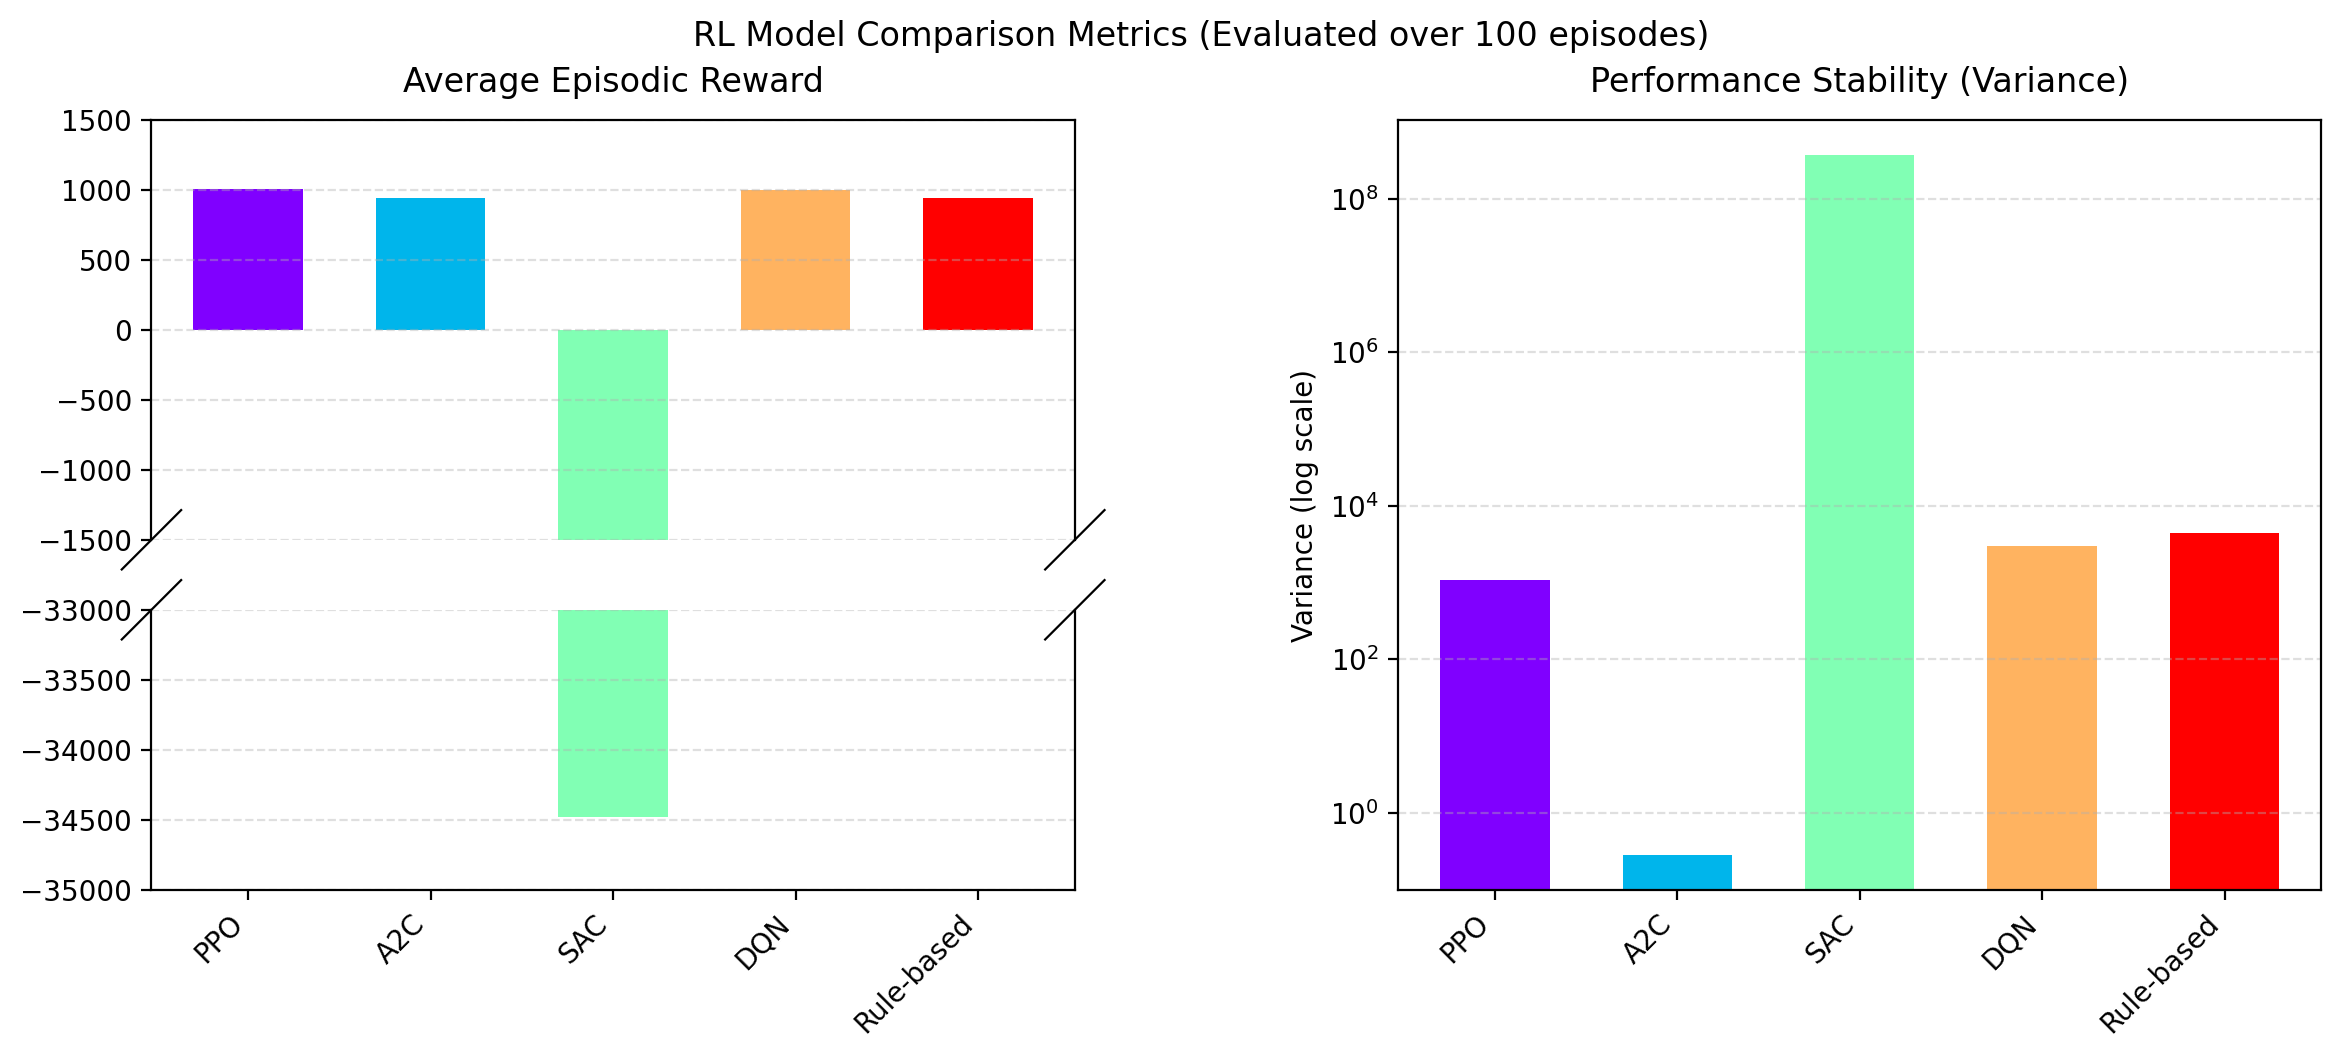
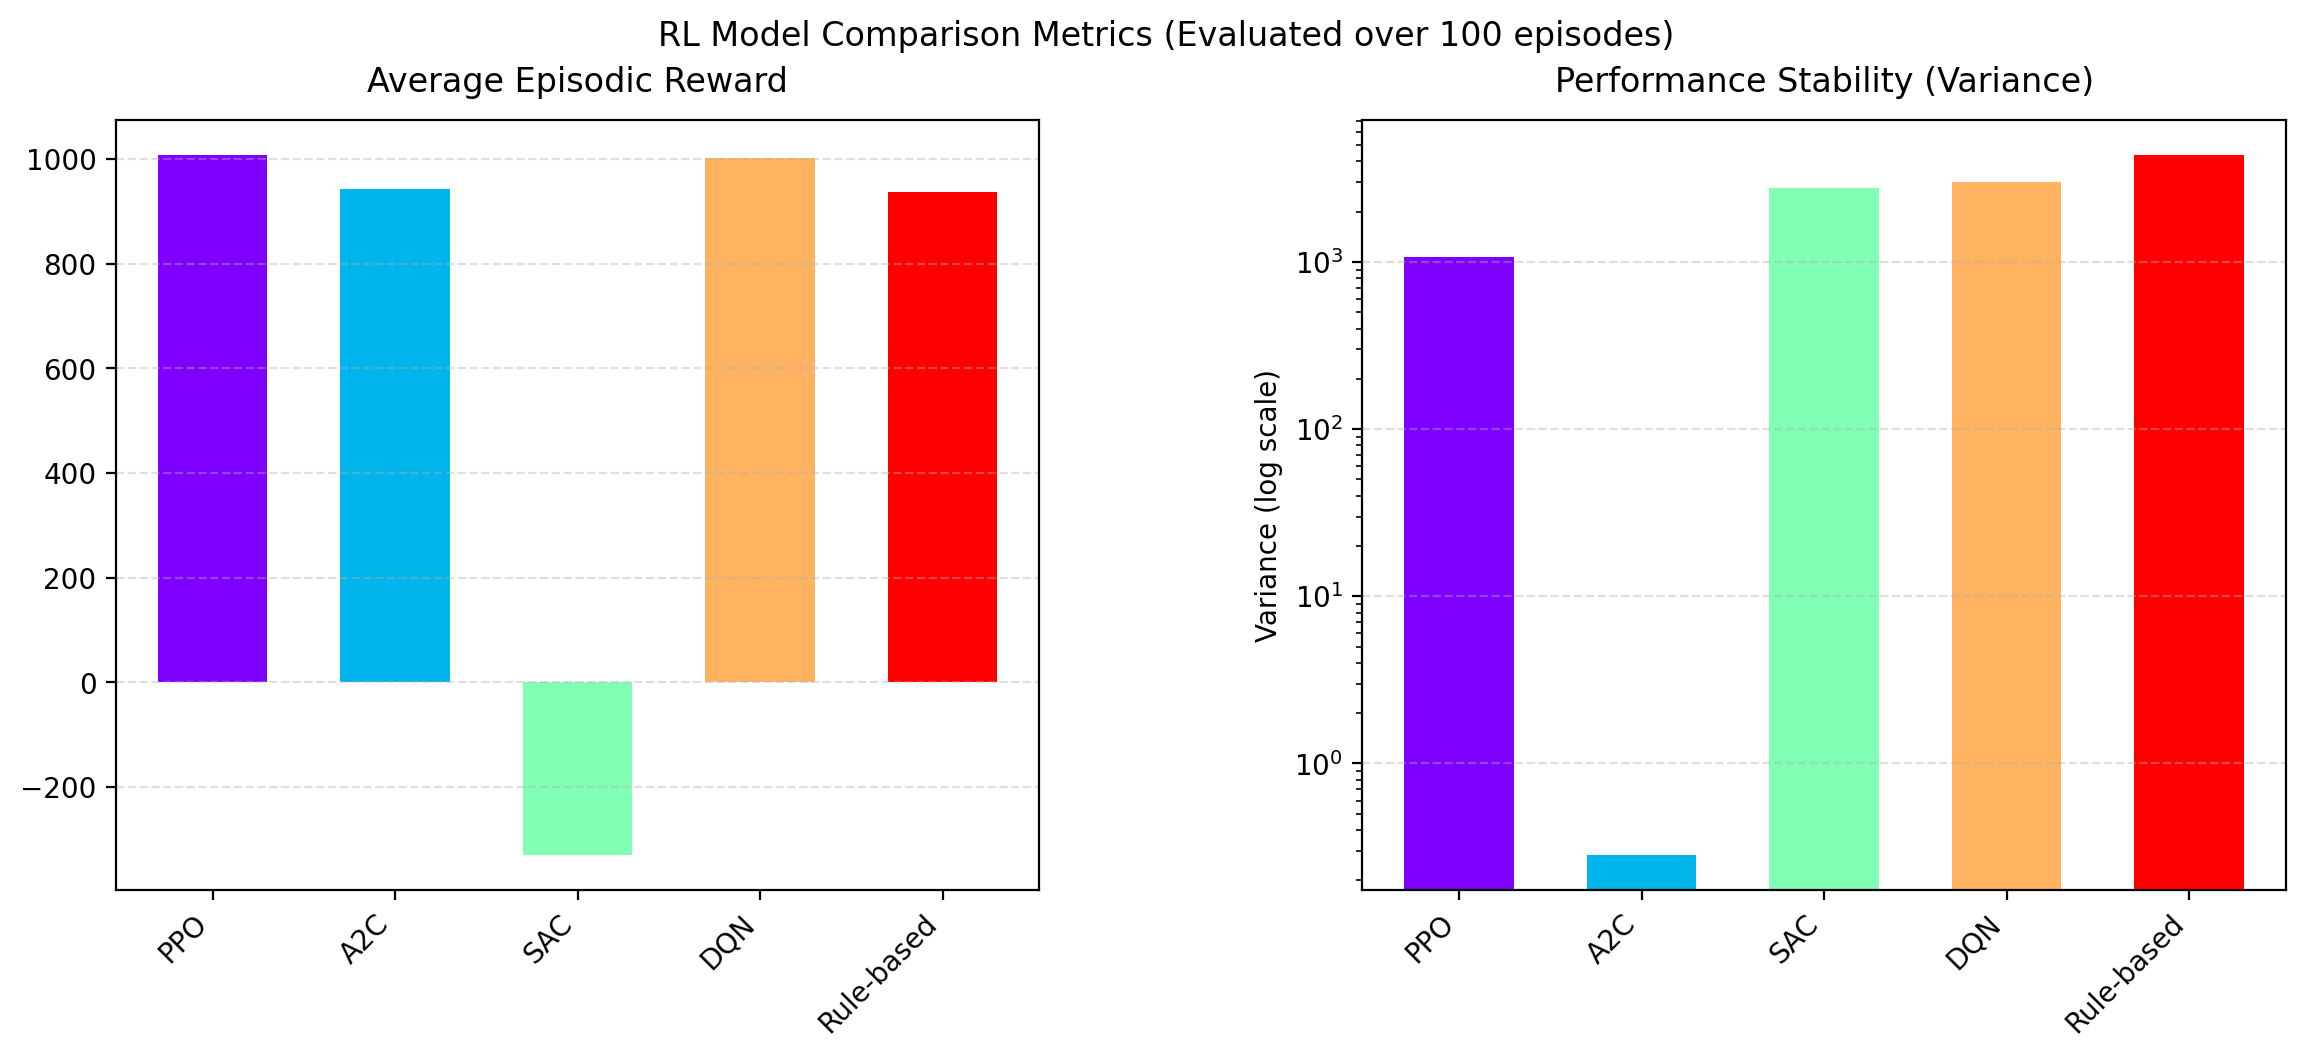
added sac results , finish reward breakdown plots, and minor tweaks to existing plots

diff --git a/plot_all.py b/plot_all.py
@@ -10,7 +10,7 @@ import matplotlib.pyplot as plt
 rewards_rulebased = np.load("models/rulebased_rewards.npy")
 rewards_ppo = np.load("models/ppo/ppo_act_100_rewards.npy")
 rewards_a2c = np.load("models/a2c/a2c_act100_total_rewards.npy")
-rewards_sac = np.load("models/sac/sac_act_100_rewards.npy")
+rewards_sac = np.load("models/sac/new_sac_act_100_rewards.npy")
 rewards_dqn = [1048.309117729268, 1069.5026737583723, 1048.4517957213461, 1045.1537590423807, 936.5585172348857, 1059.5782669659077, 935.7592384355157, 1058.9103801163906, 935.1753712722582, 953.8739630154133, 932.8458162373181, 933.3430721550471, 1061.793842397295, 1031.0737131902658, 1046.0178865213454, 912.9244045774146, 960.5409293446482, 944.5169216905992, 1045.864845331248, 1069.1155458495336, 1064.3340194190837, 984.7504184760563, 1059.0033365161835, 965.9267200111822, 1032.4666642148488, 1067.5829893581765, 1036.1908623539887, 1060.5260430810517, 989.967596410525, 1027.1484758403258, 1058.2826729333992, 964.7959256028282, 995.8982007826423, 859.4792688166358, 978.7717133366386, 985.1540525668643, 961.7732568574702, 948.910449049906, 1070.5902417760917, 996.1722966933021, 1067.310318543259, 997.2504223353833, 1063.4375834392026, 951.4783538162411, 1043.801400660975, 1047.8041027954882, 1050.0716706400779, 1061.0095775788368, 1065.5119396175705, 989.5010221069944, 959.7574154870041, 927.3205011227878, 1060.4078402765854, 1067.1121461065816, 922.9327010647459, 1065.8477143554014, 983.4521041631646, 1030.6229856361451, 1035.3422715636052, 962.9829747429824, 1027.6121784441928, 952.5443330394389, 1050.7757515922654, 959.7503709844952, 915.9488276544404, 1066.0145190713945, 1056.6618038826477, 921.85843460079, 961.4564152118644, 1031.7146663650765, 959.186712278045, 1059.9325759213684, 928.6741942500038, 1052.3583227241413, 934.870040082888, 966.9816806336692, 1049.4340249374661, 1070.1417709288212, 1068.7304387326324, 944.5920860646308, 997.9253792596041, 988.6810989944843, 935.216399937951, 912.7127437136264, 1065.4309612583234, 1058.4786736271524, 972.114503551018, 933.8915369617293, 972.6770515153546, 1068.9428306430211, 981.7287299330659, 917.8189735540859, 908.9349553264358, 920.7866156161895, 990.1941942713624, 980.7409544968231, 1043.3269687561724, 1029.776316100874, 1036.2231716647805, 959.3463735813067]
 
 
@@ -93,21 +93,27 @@ def plot_comparison(alg_names, reward_lists, save_path="plots/comparison_metrics
 
     # 1 . average
     # Create brokenaxes for first subplot using GridSpec (there should be 2 axes)
-    bax1 = brokenaxes(
-        ylims=((-35000, -33000), (-1500, 1500)), 
-        subplot_spec=gs[0],
-        fig=fig,
-        despine=False  
-    )
+    # bax1 = brokenaxes(
+    #     ylims=((-35000, -33000), (-1500, 1500)), 
+    #     subplot_spec=gs[0],
+    #     fig=fig,
+    #     despine=False  
+    # )
+    # bax1.bar(x, avgs, width, color=colors)
+    # bax1.set_title('Average Episodic Reward', pad=10)
+    # bax1.set_xticks(x)
+    # bax1.set_xticklabels(alg_names, rotation=45, ha='right')
+    # for ax in bax1.axs:
+    #     ax.grid(axis='y', linestyle='--', alpha=0.4)
+    #     ax.set_xticks(x)  
+    #     ax.set_xticklabels(alg_names, rotation=45, ha='right')
 
-    bax1.bar(x, avgs, width, color=colors)
-    bax1.set_title('Average Episodic Reward', pad=10)
-    bax1.set_xticks(x)
-    bax1.set_xticklabels(alg_names, rotation=45, ha='right')
-    for ax in bax1.axs:
-        ax.grid(axis='y', linestyle='--', alpha=0.4)
-        ax.set_xticks(x)  
-        ax.set_xticklabels(alg_names, rotation=45, ha='right')
+    ax1 = fig.add_subplot(gs[0])
+    ax1.bar(x, avgs, width, color=colors)
+    ax1.set_title('Average Episodic Reward', pad=10)
+    ax1.set_xticks(x)
+    ax1.set_xticklabels(alg_names, rotation=45, ha='right')
+    ax1.grid(axis='y', linestyle='--', alpha=0.4)
 
     # # 2 . cumulative
     # bax2 = brokenaxes(
@@ -182,6 +188,8 @@ def plot_episodic_line(alg_names, reward_lists, save_path="plots/episodic_reward
 
     for name, r, color in processed:
         episodes = np.arange(1, len(r) + 1)
+        # if(name == "SAC"):
+        #     continue
         plt.plot(episodes, r, label=name, color=color, linewidth=1.5)
 
     plt.xlabel('Episode')

diff --git a/plot_all_energy.py b/plot_all_energy.py
@@ -6,41 +6,56 @@ import utils
     # plt.plot(cumsum[1], 'b-', label = 'Hygiene') # Hygiene
     # plt.plot(cumsum[2], 'y-', label = 'Energy') # Energy
     # plt.plot(cumsum[3], 'r-', label = 'Safety') # Safety
+reward_types = ['Comfort', 'Hygiene', 'Energy', 'Safety']
 
+def plot_all_rewards():
+    # Load data
+    a2c = np.load("models/a2c/a2c_1_episode_rewards_breakdown.npy")
+    rulebased = np.load("models/rulebased_1_episode_rewards_breakdown.npy")
+    dqn = np.load("models/dqn/dqn_v5-0-0-0_episode_rewards_breakdown.npy")
+    ppo = np.load("models/ppo/ppo_eval_step_rewards_breakdown.npy")
+    sac = np.load("models/sac/sac_1_episode_rewards.npy")
 
-a2c = np.load("models/a2c/a2c_1_episode_rewards_breakdown.npy")
-rulebased = np.load("models/rulebased_1_episode_rewards_breakdown.npy")
-dqn = np.load("models/dqn/dqn_v5-0-0-0_episode_rewards_breakdown.npy")
-ppo = np.load("models/ppo/ppo_eval_step_rewards_breakdown.npy")
+    # Truncate to minimum length
+    min_len = min(a2c.shape[0], rulebased.shape[0], dqn.shape[0], ppo.shape[0], sac.shape[0])
+    a2c = a2c[:min_len]
+    rulebased = rulebased[:min_len]
+    dqn = dqn[:min_len]
+    ppo = ppo[:min_len]
+    sac = sac[:min_len]
 
-min_len = min(a2c.shape[0], rulebased.shape[0], dqn.shape[0], ppo.shape[0])
-a2c = a2c[:min_len]
-rulebased = rulebased[:min_len]
-dqn = dqn[:min_len]
-ppo = ppo[:min_len]
+    # Create 2x2 subplots
+    # fig, axes = plt.subplots(2, 2, figsize=(15, 10))
+    plt.figure(figsize=(15, 10))
+    # # Flatten axes for easier iteration
+    # axes = axes.flatten()
+    
+    # Plot each reward type
+    for idx, reward_type in enumerate(reward_types):
+        # Skip the first row which is all zeros and extract the specific reward
+        a2c_reward = np.cumsum(a2c[1:, idx].flatten())
+        rulebased_reward = np.cumsum(rulebased[1:, idx].flatten())
+        dqn_reward = np.cumsum(dqn[1:, idx].flatten())
+        ppo_reward = np.cumsum(ppo[1:, idx].flatten())
+        sac_reward = np.cumsum(sac[1:, idx].flatten())
+        
+        # Plot on the corresponding subplot
+        plt.subplot(2, 2, idx + 1)
+        plt.plot(rulebased_reward, 'r--', label='Rule-based', linewidth=1.5)
+        plt.plot(a2c_reward, 'y-', label='A2C', linewidth=1.5)
+        plt.plot(dqn_reward, 'b-', label='DQN', linewidth=1.5)
+        plt.plot(ppo_reward, 'g-', label='PPO', linewidth=1.5)
+        plt.plot(sac_reward, 'm-', label='SAC', linewidth=1.5)
+        
+        plt.xlabel("Step", fontsize=11)
+        plt.ylabel(f"{reward_type} Reward", fontsize=11)
+        plt.title(f"Cumulative {reward_type} Reward", fontsize=12)
+        plt.legend(loc="best", fontsize=9)
+        plt.grid(True, alpha=0.3)
+    
+    plt.suptitle('Cumulative Rewards per Step (1 Episode - 1344 Steps)', fontsize=16, y=0.98, fontweight='bold')
+    plt.tight_layout()
+    plt.savefig("plots/cum_1_episode_rewards_subplots.png", dpi=300, bbox_inches='tight')
+    plt.show()
 
-#skip the first row which is all zeros
-a2c_energy = a2c[1:,2].flatten()
-rulebased_energy = rulebased[1:,2].flatten()
-dqn_energy = dqn[1:,2].flatten()
-ppo_energy = ppo[1:,2].flatten()
-
-print(a2c.shape, rulebased.shape, dqn.shape, ppo.shape)
-
-a2c_energy = np.cumsum(a2c_energy)
-rulebased_energy = np.cumsum(rulebased_energy)
-dqn_energy = np.cumsum(dqn_energy)
-ppo_energy = np.cumsum(ppo_energy)
-
-plt.plot(rulebased_energy, 'r--', label = 'Rule-based') # Energy
-plt.plot(a2c_energy, 'y-', label = 'A2C') # Energy
-plt.plot(dqn_energy, 'b-', label = 'DQN') # Energy
-plt.plot(ppo_energy, 'g-', label = 'PPO') # Energy
-# a2c_comfort = a2c[:,0].flatten()
-# plt.plot(a2c_comfort, 'g-', label = 'Comfort') # Comfort
-plt.xlabel("Step")
-plt.ylabel("Energy Reward")
-plt.legend(loc = "best")
-plt.title("Cummulative Energy Reward per Step (1 Episode - 1344 Steps)")
-plt.grid()
-plt.show()
+plot_all_rewards()
